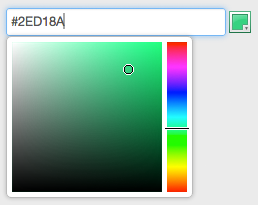
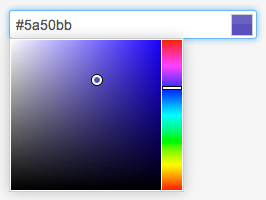
SimpleForm input able to take options for minicolor

diff --git a/vendor/assets/javascripts/jquery-minicolors-simple_form.js b/vendor/assets/javascripts/jquery-minicolors-simple_form.js
@@ -1,1 +1,6 @@
-$(function() { $('[data-editor=minicolors]').minicolors() });
+$(function() {
+  $('[data-minicolors]').each(function(i, elem) {
+    var input = $(this);
+    input.minicolors(input.data('minicolors'));
+  });
+});

diff --git a/app/inputs/minicolors_input.rb b/app/inputs/minicolors_input.rb
@@ -3,7 +3,7 @@ if defined? SimpleForm
     def input_html_options
       options = super
       options[:data] ||= {}
-      options[:data].merge! editor: 'minicolors'
+      options[:data][:minicolors] ||= {}
       options
     end
 

diff --git a/README.md b/README.md
@@ -35,8 +35,13 @@ Add to `app/assets/stylesheets/application.css`:
 Just call `miniColors()` with any text-input selector:
 
 ```coffeescript
+// With default options:
 jQuery ->
-  $('input[type=text]').miniColors();
+  $('input[type=text]').minicolors();
+
+// With Bootstrap theme:
+jQuery ->
+  $('input[type=text]').minicolors({theme: 'bootstrap'});
 ```
 
 # With SimpleForm
@@ -46,8 +51,15 @@ See https://github.com/plataformatec/simple_form
 ```erb
 <%# app/views/balloons/_form.html.erb %>
 
+<%# Basic usage: %>
 <%= simple_form_for @balloon do |f| %>
   <%= f.input :color, as: :minicolors %>
+<% end %>
+
+<%# With Bootstrap theme and swatch on the right: %>
+<%= simple_form_for @balloon do |f| %>
+  <%= f.input :color, as: :minicolors, input_html: {data: {
+          minicolors: {theme: :bootstrap, swatchPosition: :right}}} %>
 <% end %>
 ```
 
